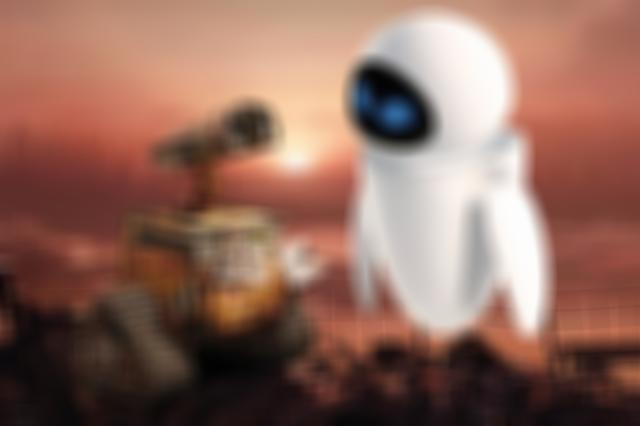
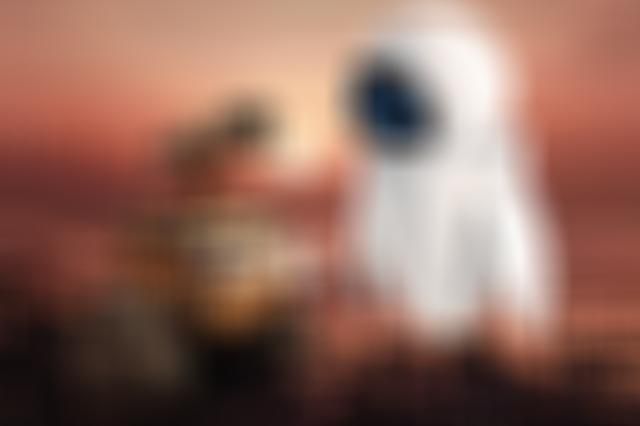
move

diff --git a/src/triangle/Controller.java b/src/triangle/Controller.java
@@ -3,6 +3,7 @@ package triangle;
 import java.awt.image.BufferedImage;
 import java.awt.image.DataBufferByte;
 import java.io.BufferedWriter;
+import java.io.Console;
 import java.io.File;
 import java.io.FileWriter;
 import java.io.IOException;
@@ -22,9 +23,14 @@ public class Controller {
 
 		try {
 			BufferedImage originImg = ImageIO.read(originFile);
-			BufferedImage outputImg = controllor.blur(originImg, 1);
-
+			long startTime = System.currentTimeMillis();
+			BufferedImage outputImg = controllor.blur(originImg, 25);
+			long endTime = System.currentTimeMillis();
+			System.out.println(endTime - startTime + " ms");	
+			
+			
 			ImageIO.write(outputImg, "jpg", outputFile);
+			
 		} catch (IOException e) {
 			// TODO Auto-generated catch block
 			e.printStackTrace();
